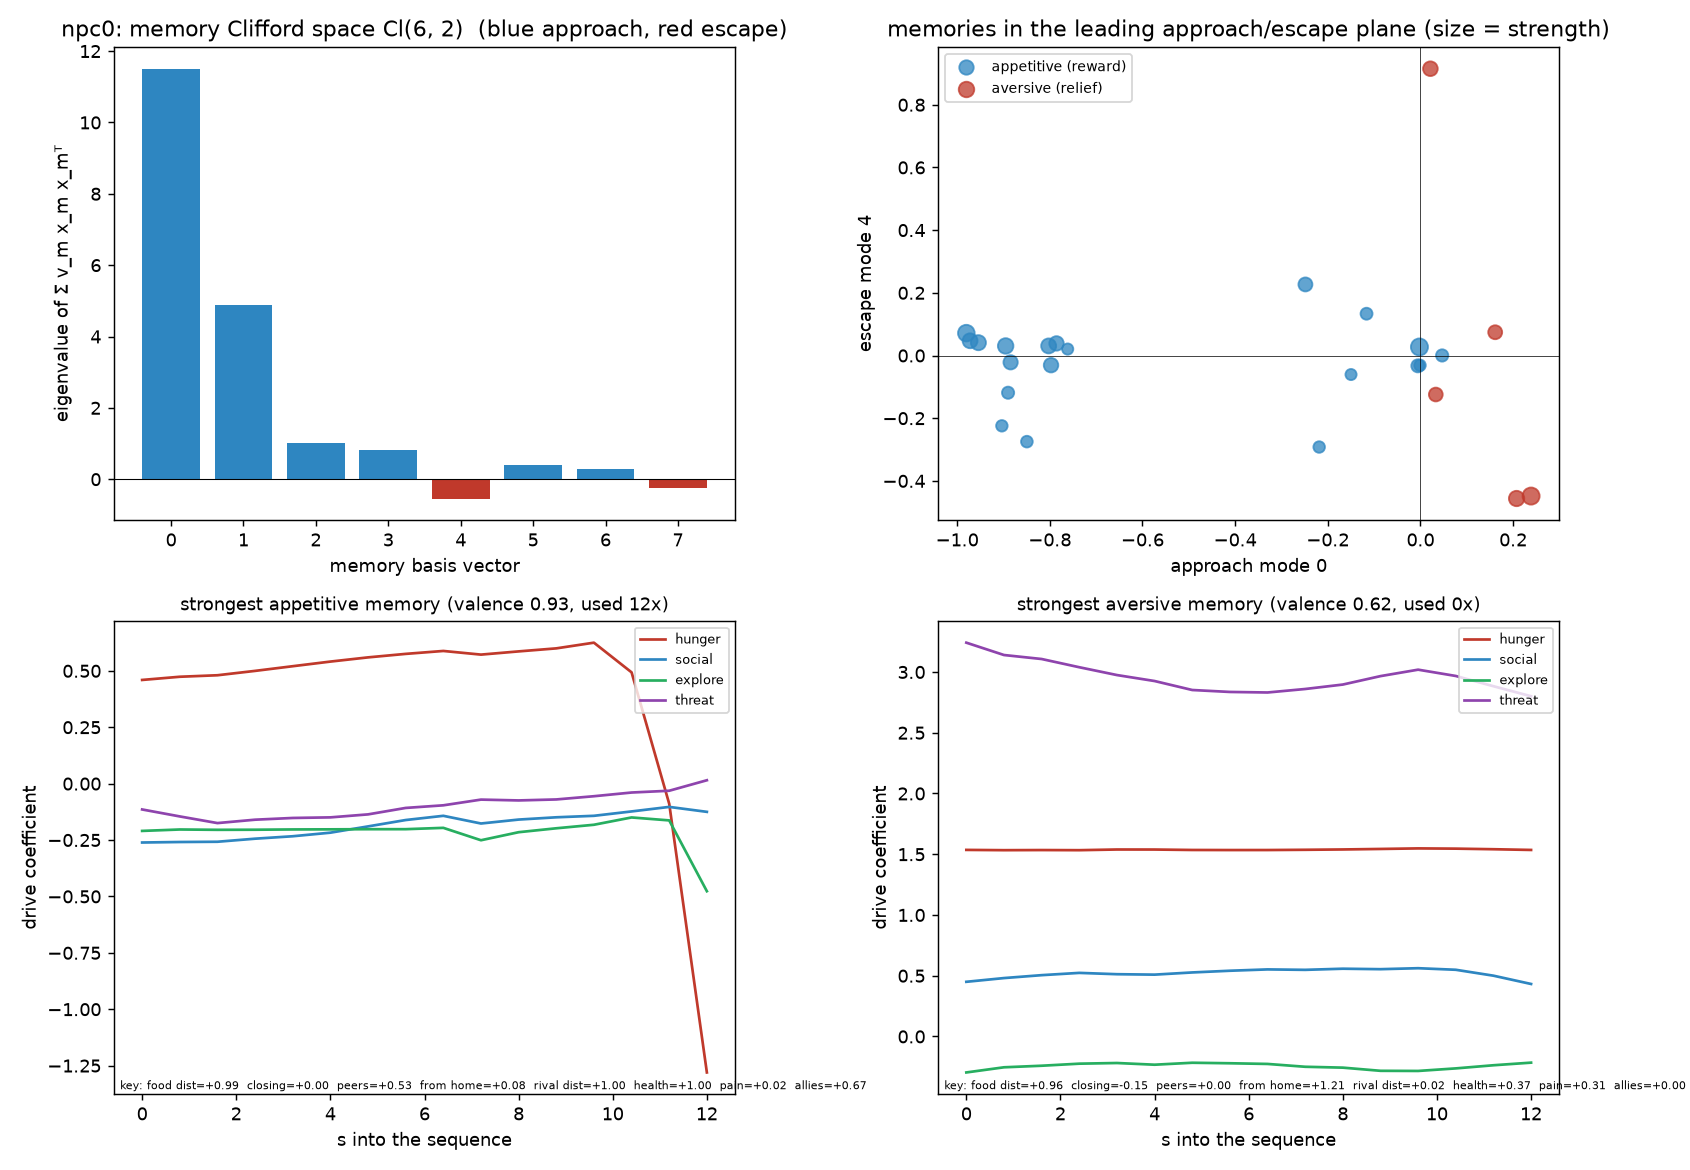
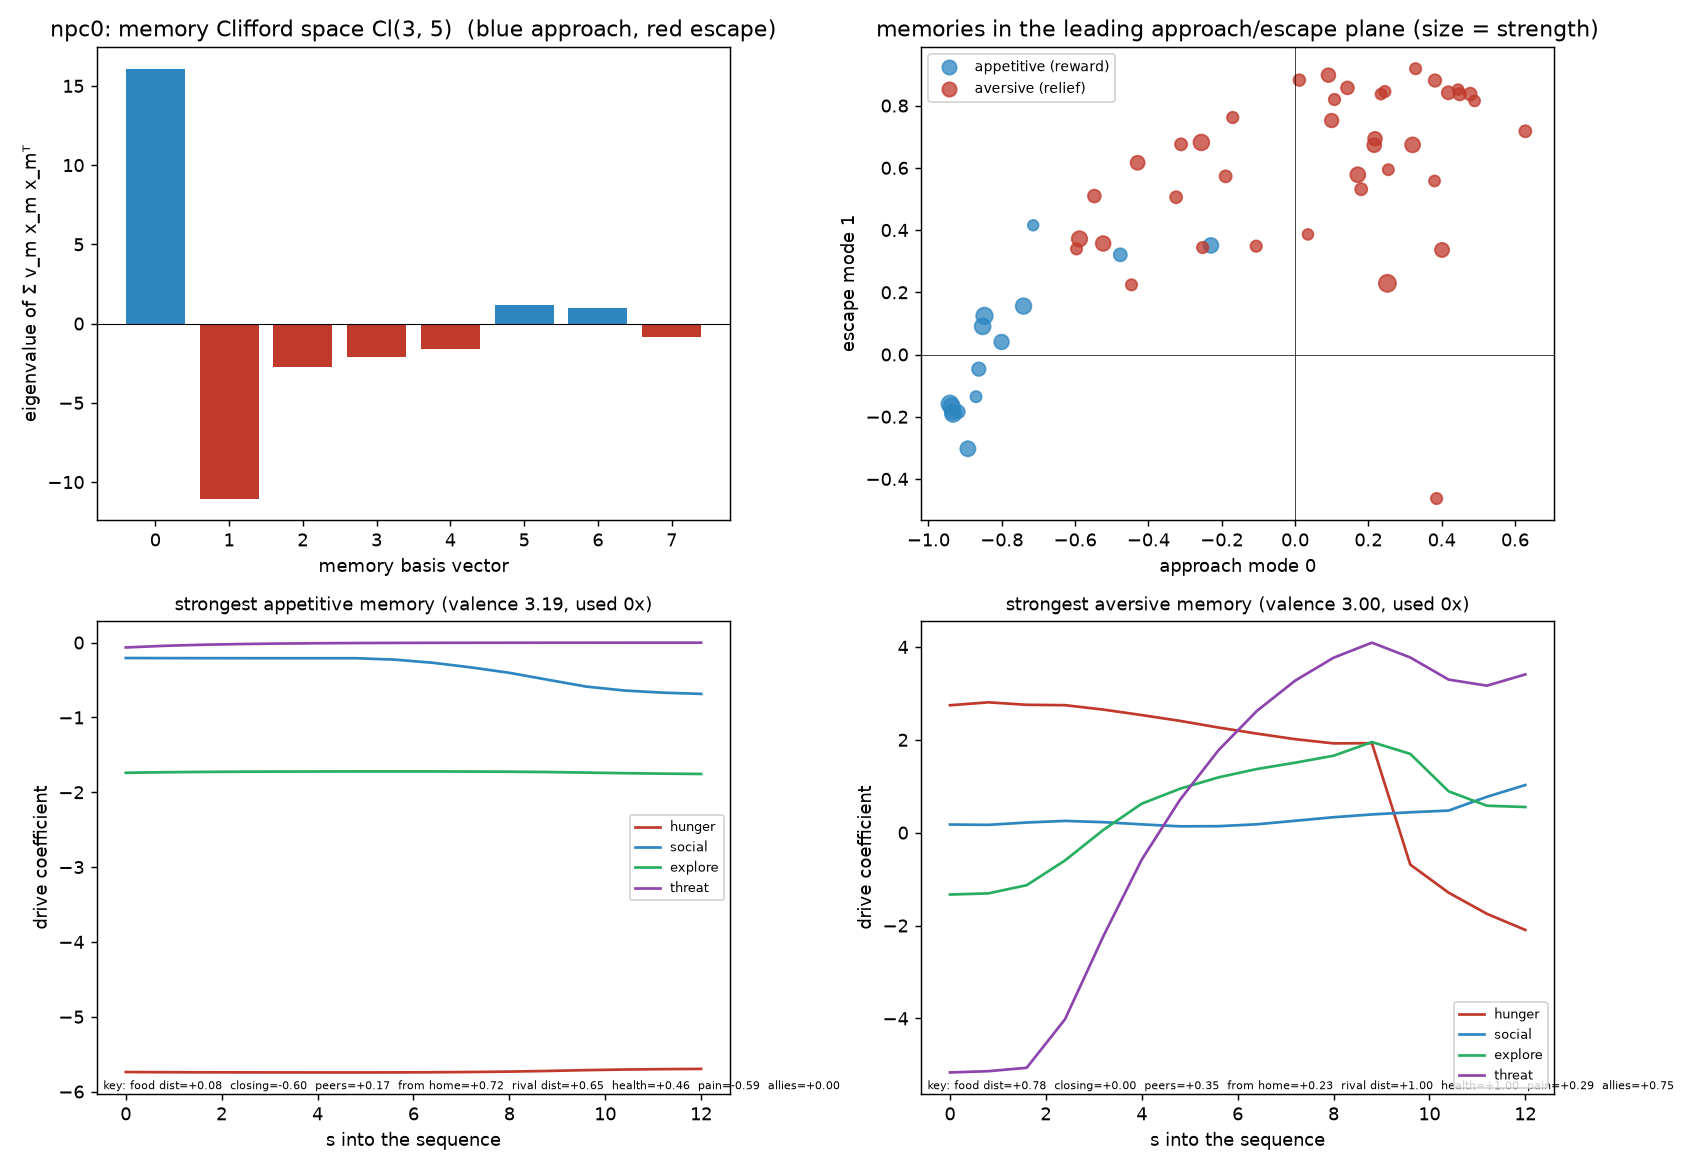
Loss aversion in sequence memory (lambda = 2)
Pain counts double when forming memories: a relief of x has weighted
valence 2x (memory strength), against one formation threshold, so half the
pain suffices. Escape memories tolerate 2x the squared key/STM mismatch when
triggering (twice the evidence budget, sqrt(2) wider basin). E8 now compares
memory off, lambda=1 and lambda=2; 63 tests.

diff --git a/experiments/e8_sequence_memory.py b/experiments/e8_sequence_memory.py
@@ -3,8 +3,12 @@
 Behaviour sequences that ended in high reward (appetitive) or high pain relief
 (aversive) are stored with the sense data present when they began, and replayed
 as attractors when that sense data is approximately present in short-term memory.
-Compared: memory on vs off, 4 seeds x 1500 s, everything else equal.  Then the
-memory Clifford space: basis, signature Cl(p, q), and where memories lie in it.
+Compared, 4 seeds x 1500 s, everything else equal:
+  off          no long-term memory
+  lambda=1     memory, pain and reward weighted equally
+  lambda=2     memory with loss aversion: pain counts double when forming a memory,
+               and escape memories are twice as easy to trigger
+Then the memory Clifford space: basis, signature Cl(p, q), and where memories lie.
 """
 
 import os
@@ -40,11 +44,15 @@ def replay_outcomes(log, n_npcs, horizon_ticks=20):
     return np.array(starts), np.array(rand)
 
 
-rows = {True: [], False: []}
+CONDITIONS = {"lambda=2": LTMConfig(loss_aversion=2.0),
+              "lambda=1": LTMConfig(loss_aversion=1.0),
+              "off": None}
+rows = {name: [] for name in CONDITIONS}
 keep = None
-for use in (True, False):
+for name, ltm_cfg in CONDITIONS.items():
+    use = ltm_cfg is not None
     for sd in SEEDS:
-        ar = Arena(ArenaConfig(seed=sd, ltm=LTMConfig() if use else None))
+        ar = Arena(ArenaConfig(seed=sd, ltm=ltm_cfg))
         log = ar.run(T)
         n = ar.cfg.n_npcs
         r = dict(
@@ -61,6 +69,8 @@ for use in (True, False):
             r["stored_av"] = sum(e["what"] == "stored" and e["kind"] == AVERSIVE for e in ev)
             r["merged"] = sum(e["what"] == "merged" for e in ev)
             r["recalls"] = sum(e["what"] == "recalled" for e in ev)
+            r["recall_app"] = sum(e["what"] == "recalled" and e["kind"] == APPETITIVE for e in ev)
+            r["recall_av"] = sum(e["what"] == "recalled" and e["kind"] == AVERSIVE for e in ev)
             d_rep, d_rand = replay_outcomes(log, n)
             r["dpain_replay"], r["dpain_random"] = float(d_rep.mean()), float(d_rand.mean())
             sigs = []
@@ -68,9 +78,9 @@ for use in (True, False):
                 sp = a.ltm.build_space()
                 sigs.append(sp.signature if sp else (0, 0))
             r["signatures"] = sigs
-            if sd == SEEDS[0]:
+            if sd == SEEDS[0] and name == "lambda=2":
                 keep = ar
-        rows[use].append(r)
+        rows[name].append(r)
 
 # ---- memory Clifford space of one NPC -------------------------------------
 a0 = next(a for a in keep.agents if a.faction == NPC_FACTION and (a.ltm.slots["active"] == 1).sum() >= 4)
@@ -123,28 +133,31 @@ for ax, k, title in ((axes[1][0], APPETITIVE, "strongest appetitive memory"),
 save(fig, OUT, "memory_space.png")
 
 
-def agg(key, use=True):
-    x = np.array([r[key] for r in rows[use]], float)
+def agg(key, name):
+    x = np.array([r[key] for r in rows[name]], float)
     return f"{x.mean():.3f} ± {x.std():.3f}"
 
 
 lines = [
     "E8 Long-term sequence memory",
     "============================",
-    f"Arena, 5 NPCs + 1 rival, {len(SEEDS)} seeds x {T:.0f} s; memory on vs off (pain-aversion metric learning on in both).",
+    f"Arena, 5 NPCs + 1 rival, {len(SEEDS)} seeds x {T:.0f} s (pain-aversion metric learning on in all).",
     "",
-    f"{'':28s}{'memory ON':>22s}{'memory OFF':>22s}",
+    f"{'':26s}" + "".join(f"{n:>20s}" for n in CONDITIONS),
 ]
 for k, lab in (("pain", "NPC mean pain"), ("engagements", "engagements"), ("solo", "solo engagements"),
                ("npc_injury", "total NPC injury"), ("immobile", "NPC immobile fraction")):
-    lines.append(f"{lab:28s}{agg(k, True):>22s}{agg(k, False):>22s}")
+    lines.append(f"{lab:26s}" + "".join(f"{agg(k, n):>20s}" for n in CONDITIONS))
+for k, lab in (("replay", "replaying fraction"), ("stored_app", "stored appetitive"), ("stored_av", "stored aversive"),
+               ("recall_app", "recalled appetitive"), ("recall_av", "recalled aversive")):
+    lines.append(f"{lab:26s}" + "".join(f"{agg(k, n) if n != 'off' else '-':>20s}" for n in CONDITIONS))
 lines += [
     "",
-    "Memory activity (NPCs, per seed):",
+    "Memory activity with loss aversion (NPCs, per seed):",
 ]
-for sd, r in zip(SEEDS, rows[True]):
+for sd, r in zip(SEEDS, rows["lambda=2"]):
     lines.append(f"  seed {sd}: stored {r['stored_app']} appetitive / {r['stored_av']} aversive, merged {r['merged']}, "
-                 f"recalled {r['recalls']}x, replaying {r['replay']:.0%} of the time; "
+                 f"recalled {r['recall_app']} appetitive / {r['recall_av']} aversive, replaying {r['replay']:.0%} of the time; "
                  f"pain change over 4 s after a replay starts {r['dpain_replay']:+.3f} vs {r['dpain_random']:+.3f} after random ticks")
     lines.append(f"          memory-space signatures (npc0..npc4, rival): {r['signatures']}")
 lines += [

diff --git a/tests/test_ltm.py b/tests/test_ltm.py
@@ -43,16 +43,16 @@ def test_reward_is_appetitive_and_similar_events_merge_into_one_attractor():
     m = SequenceMemory(LTMConfig())
     ctx = np.full(8, 0.3, np.float32)
     C = np.array([0.6, -0.2, 0.0, 0.4])                   # fighting together
-    ev1 = _feed(m, ctx, C, list(np.linspace(0.2, -0.8, 16)))
+    ev1 = _feed(m, ctx, C, list(np.linspace(0.0, -0.8, 16)))
     assert ev1["kind"] == APPETITIVE
     _feed(m, ctx, C, [0.0] * m.cfg.cooldown)
-    ev2 = _feed(m, ctx + 0.05, C, list(np.linspace(0.2, -0.8, 16)))
+    ev2 = _feed(m, ctx + 0.05, C, list(np.linspace(0.0, -0.8, 16)))
     assert ev2["what"] == "merged" and ev2["slot"] == ev1["slot"]
     assert (m.slots["active"] == 1).sum() == 1
 
 
 def test_recall_fires_only_when_the_context_is_in_stm_and_replays_in_order():
-    m = SequenceMemory(LTMConfig())
+    m = SequenceMemory(LTMConfig(match_radius=0.5, activation=0.5))
     key = np.array([0.9, 0.5, 0.0, 0.4, 0.2, 1.0, 0.1, 0.0], np.float32)
     seq = np.stack([np.array([0.0, 0.0, 0.1 * k, -0.5]) for k in range(16)])
     m.store(key, seq, AVERSIVE, 1.0)
@@ -69,7 +69,7 @@ def test_recall_fires_only_when_the_context_is_in_stm_and_replays_in_order():
 
 
 def test_attractor_settles_on_the_stronger_of_two_nearby_memories():
-    m = SequenceMemory(LTMConfig(merge_radius=0.01))
+    m = SequenceMemory(LTMConfig(merge_radius=0.01, match_radius=0.5, activation=0.5))
     k1 = np.full(8, 0.5, np.float32)
     k2 = k1 + np.float32(0.1)
     m.store(k1, np.full((16, 4), 1.0), APPETITIVE, 0.2)
@@ -100,3 +100,38 @@ def test_arena_with_ltm_runs():
     log = ar.run(200.0)
     assert np.all(np.isfinite(log["C"]))
     assert "replay" in log
+
+
+def test_loss_aversion_forming_pain_counts_double():
+    c = LTMConfig()
+    ctx = np.full(8, 0.2, np.float32)
+    C = np.zeros(4)
+    # a relief of x and a reward of x: the relief memory is twice as strong
+    m1, m2 = SequenceMemory(c), SequenceMemory(c)
+    e1 = _feed(m1, ctx, C, [0.5] * 8 + list(np.linspace(0.5, 0.0, 8)))     # relief 0.5
+    e2 = _feed(m2, ctx, C, [0.0] * 8 + list(np.linspace(0.0, -0.5, 8)))    # reward 0.5
+    assert e1["kind"] == AVERSIVE and e2["kind"] == APPETITIVE
+    assert np.isclose(m1.slots["strength"][e1["slot"]], 2 * m2.slots["strength"][e2["slot"]], rtol=1e-5)
+    # half the formation threshold is enough for pain, not for reward
+    x = 0.6 * c.form_threshold
+    m3, m4 = SequenceMemory(c), SequenceMemory(c)
+    assert _feed(m3, ctx, C, [x] * 8 + list(np.linspace(x, 0.0, 8))) is not None
+    assert _feed(m4, ctx, C, [0.0] * 8 + list(np.linspace(0.0, -x, 8))) is None
+
+
+def test_loss_aversion_triggering_escape_basin_is_wider():
+    c = LTMConfig()
+    key = np.full(8, 0.5, np.float32)
+    seq = np.zeros((16, 4))
+    # a cue at squared mismatch 1.5 x match_radius^2 (activation exp(-1.5) for a reward
+    # memory, exp(-0.75) for an escape memory) against threshold exp(-x) in between
+    off = np.sqrt(1.5) * c.match_radius / np.sqrt(8)
+    cue = key + np.float32(off)
+    c2 = LTMConfig(activation=float(np.exp(-1.0)))
+    fired = {}
+    for kind in (APPETITIVE, AVERSIVE):
+        m = SequenceMemory(c2)
+        m.store(key, seq, kind, 1.0)
+        m.observe(cue, np.zeros(4), 0.0, 0.0)
+        fired[kind] = m.recall() is not None
+    assert fired[AVERSIVE] and not fired[APPETITIVE]

diff --git a/cliffnpc/ltm.py b/cliffnpc/ltm.py
@@ -173,15 +173,14 @@ class SequenceMemory:
         if self.hist_n < c.seq_len:
             return None
         pains = self._chrono(self.pain, self.hist_n, c.seq_len)
-        # relief: pain removed (only the positive part counts); reward: pleasure gained
+        # relief: pain removed (only the positive part counts); reward: pleasure gained.
+        # Loss aversion: the pain side weighs loss_aversion times as much.
         relief = float(max(pains[:-1].max(), 0.0) - max(pains[-1], 0.0))
-        reward = float(max(-pains[-1], 0.0)) if pains[0] - pains[-1] > 0.5 * c.reward_threshold else 0.0
-        if relief >= c.relief_threshold and relief >= reward:
-            kind, val = AVERSIVE, relief
-        elif reward >= c.reward_threshold:
-            kind, val = APPETITIVE, reward
-        else:
+        reward = float(max(-pains[-1], 0.0)) if pains[0] - pains[-1] > 0.5 * c.form_threshold else 0.0
+        w_relief, w_reward = c.loss_aversion * relief, reward
+        if max(w_relief, w_reward) < c.form_threshold:
             return None
+        kind, val = (AVERSIVE, w_relief) if w_relief >= w_reward else (APPETITIVE, w_reward)
         seq = self._chrono(self.beh, self.hist_n, c.seq_len)
         key = self._chrono(self.sense_hist, self.hist_n, c.seq_len)[0]
         self.cool = c.cooldown
@@ -189,6 +188,8 @@ class SequenceMemory:
 
     # --- store ---------------------------------------------------------------
     def store(self, key: np.ndarray, seq: np.ndarray, kind: int, valence: float) -> dict:
+        """valence: the *weighted* valence (loss aversion already applied); it
+        becomes the memory's strength."""
         c = self.cfg
         s = self.slots
         act = np.nonzero(s["active"] == 1)[0]
@@ -243,13 +244,15 @@ class SequenceMemory:
             return None
         stm = self.stm[:n_stm]
         keys = s["key"][act]
-        d2 = ((stm[:, None, :] - keys[None, :, :]) ** 2).sum(-1) / c.match_radius ** 2
+        # loss aversion: escape memories tolerate loss_aversion x the squared mismatch
+        tol = np.where(s["kind"][act] == AVERSIVE, c.loss_aversion, 1.0) * c.match_radius ** 2
+        d2 = ((stm[:, None, :] - keys[None, :, :]) ** 2).sum(-1) / tol
         support = np.exp(-d2.min(axis=0))              # how present each key is in STM
         cue = stm[np.unravel_index(np.argmin(d2), d2.shape)[0]].astype(float)
         logw = np.log(np.maximum(s["strength"][act], 1e-6))
         q = cue
         for _ in range(c.hopfield_iters):              # settle into a basin
-            e = -((keys - q) ** 2).sum(-1) / c.match_radius ** 2
+            e = -((keys - q) ** 2).sum(-1) / tol
             w = np.exp(c.hopfield_beta * e + logw - (c.hopfield_beta * e + logw).max())
             w /= w.sum()
             q = w @ keys

diff --git a/cliffnpc/config.py b/cliffnpc/config.py
@@ -97,8 +97,14 @@ class LTMConfig:
     n_slots: int = 64                   # memory slots
     n_modes: int = 8                    # basis vectors of the memory Clifford space
     vec_dim: int = 128                  # padded memory vector length (key + sequence)
-    relief_threshold: float = 0.6       # pain drop over a sequence that counts as relief
-    reward_threshold: float = 0.4       # net pleasure (negative pain) that counts as reward
+    # Loss aversion (Kahneman-Tversky, lambda ~ 2): a loss weighs twice a gain.
+    #   forming:    weighted valence = loss_aversion * relief (vs. 1 * reward); the
+    #               memory's strength is the weighted valence, and the same
+    #               formation threshold applies, so half the pain suffices;
+    #   triggering: escape memories tolerate loss_aversion x the squared mismatch
+    #               between key and STM (twice the evidence budget, sqrt(2) basin).
+    loss_aversion: float = 2.0
+    form_threshold: float = 0.4         # weighted valence needed to form a memory
     merge_radius: float = 0.35          # keys this close (and similar sequences) are merged
     match_radius: float = 0.25          # key distance scale for recall ("approximately present")
     activation: float = 0.8             # attractor activation threshold (0..1)
